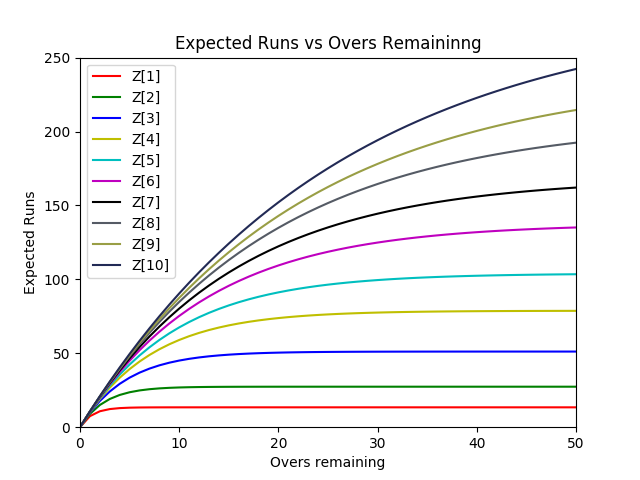
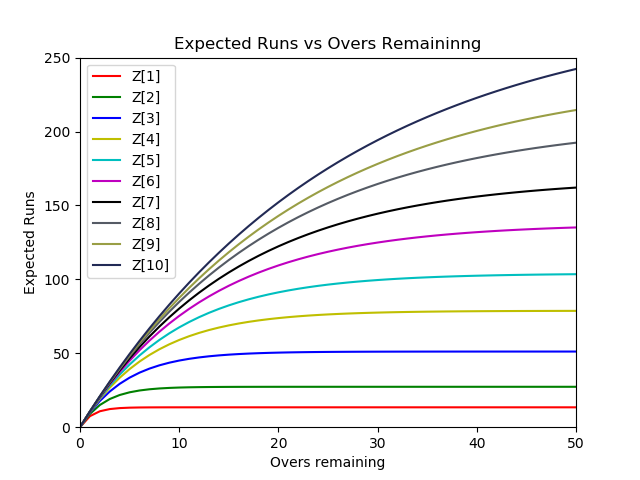
CLserver Commit

Changed region(s): [[0.25, 0.0625, 0.75, 0.125], [0.0312, 0.4062, 0.0625, 0.4375]]

diff --git a/src/main.py b/src/main.py
@@ -58,7 +58,7 @@ def fit_parameters(innings_number,runs_scored,remaining_overs,wickets_in_hand):
     parameters = [10, 30, 40, 60, 90, 125, 150, 170, 190, 200,3]
     optimised_res = sp.minimize(sum_of_squared_errors_loss_function,parameters,
                       args=[innings_number,runs_scored,remaining_overs,wickets_in_hand],
-                      method='L-BFGS-B')
+                      method='COBYLA')
     return optimised_res['fun'],optimised_res['x']
 
 def plotparam_expectedrunvsoverremains(optparameters):
@@ -82,7 +82,7 @@ def plotparam_expectedrunvsoverremains(optparameters):
         y_run=optparameters[i] * (1 - np.exp(-optparameters[10] * x /optparameters[i]))
         plt.plot(x, y_run, c=colors[i], label='Z[' + str(i + 1) + ']')
         plt.legend()
-    plt.savefig('parameterplot_expectedrun_vs_overremain_L-BFGS-B.png')
+    plt.savefig('parameterplot_expectedrun_vs_overremain_COBYLA.png')
     plt.close()
 
 
@@ -108,7 +108,7 @@ def plotparam_resourceremainvsoverremains(optparameters):
         y_run=optparameters[i] * (1 - np.exp(-optparameters[10] * x /optparameters[i]))
         plt.plot(x, (y_run/Z5010)*100, c=colors[i], label='Z[' + str(i + 1) + ']')
         plt.legend()
-    plt.savefig('parameterplot_resourceremain_vs_overremain_L-BFGS-B.png')
+    plt.savefig('parameterplot_resourceremain_vs_overremain_COBYLA.png')
     plt.close()
 
 
